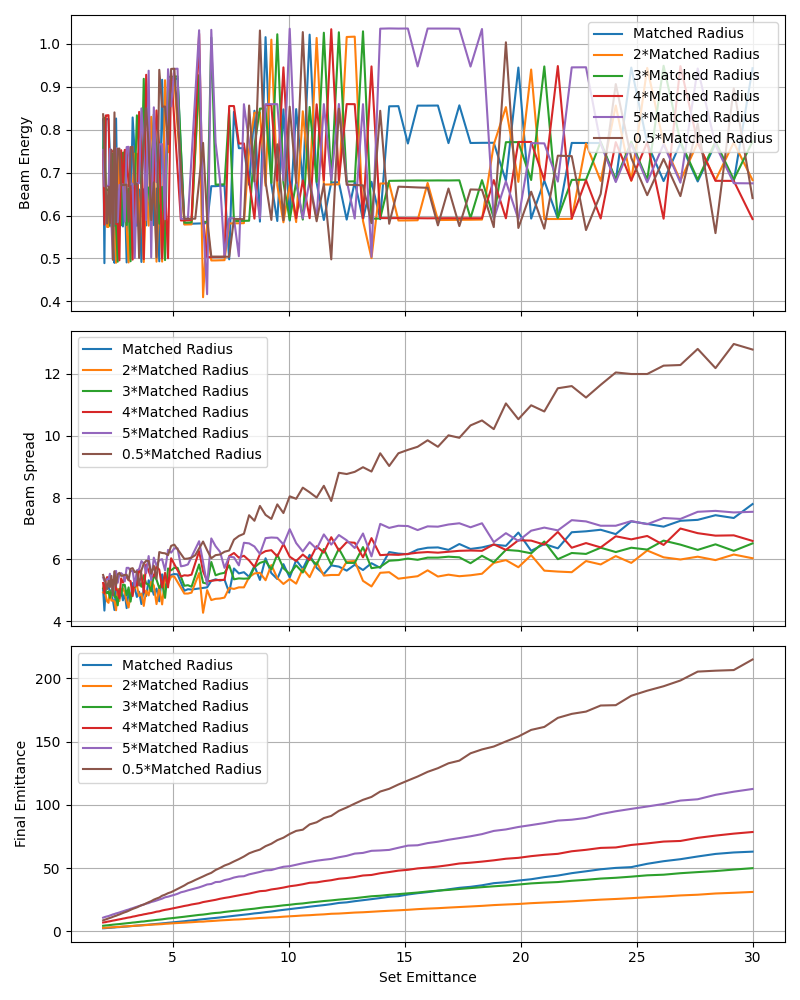
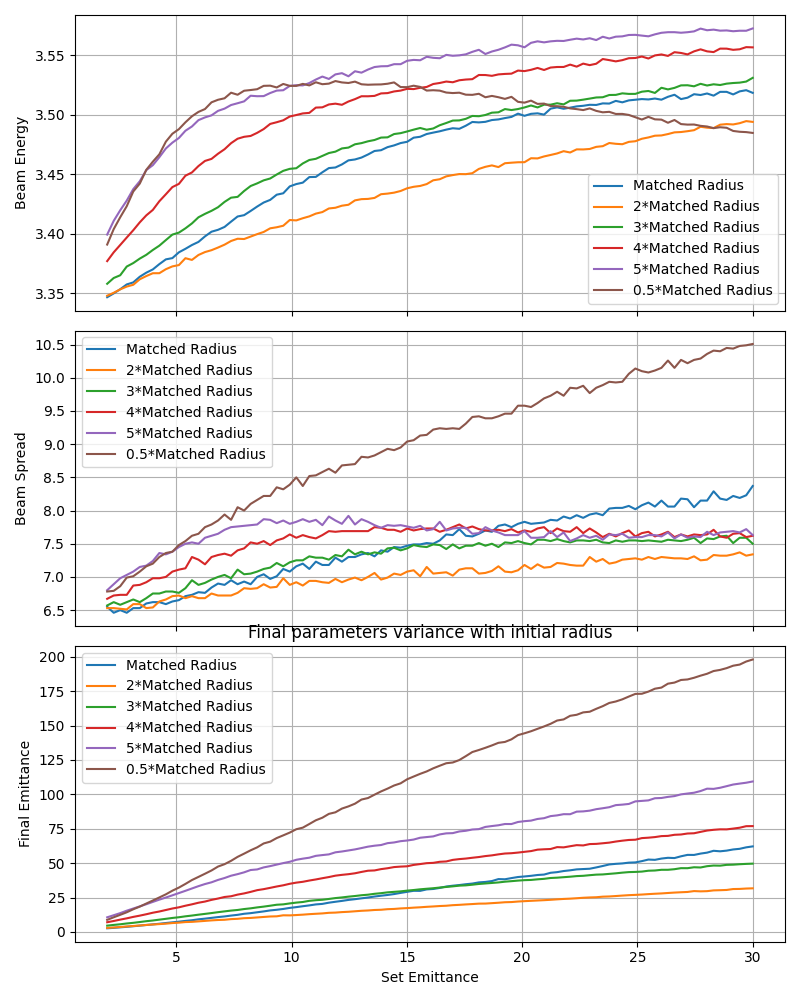
git push physics results fixed data

diff --git a/Processed_Data/physics_results.py b/Processed_Data/physics_results.py
@@ -10,9 +10,9 @@ script_dir = os.path.dirname(os.path.abspath(__file__))
 # Change the current working directory to the script directory
 os.chdir(script_dir)
 
-data_set=r"data_sets\output_test_600.csv"
+data_set=r"data_sets\big_scan_correct.csv"
 df = pd.read_csv(data_set)
-df=df[df['Beam Spread']>0.01]
+#df=df[df['Beam Spread']>0.01]
 
 filtered_df1=df[df['Set Radius']==1]#& df['Beam Spread']>0.01]
 filtered_df2=df[df['Set Radius']==2]
@@ -59,6 +59,7 @@ for ax in axes:
     ax.grid(True)
 
 plt.tight_layout()  # Ensures better spacing between plots
+plt.title("Final parameters variance with initial radius")
 plt.savefig('Plots/fixed_emittance_varying_radius.png')
 plt.show()
 
@@ -117,6 +118,7 @@ for ax in axes:
 plt.tight_layout()
 
 # Save the plot to a file (finish the save path)
+plt.title("Final parameters variance with initial emittance")
 plt.savefig('Plots/parameter_variation_vs_emittance.png')
 
 # Show the plot

diff --git a/Processed_Data/statistical_analysis.py b/Processed_Data/statistical_analysis.py
@@ -39,7 +39,7 @@ def distance_correlation_calculator(df, targets):
     return reshaped_df, correlation_df_sorted
 
 
-data_set=r"data_sets\output_test_600.csv"
+data_set=r"data_sets\big_scan_correct.csv.csv"
 df = pd.read_csv(data_set)
 #df = df.drop(columns=['Initial emittance'])
 
